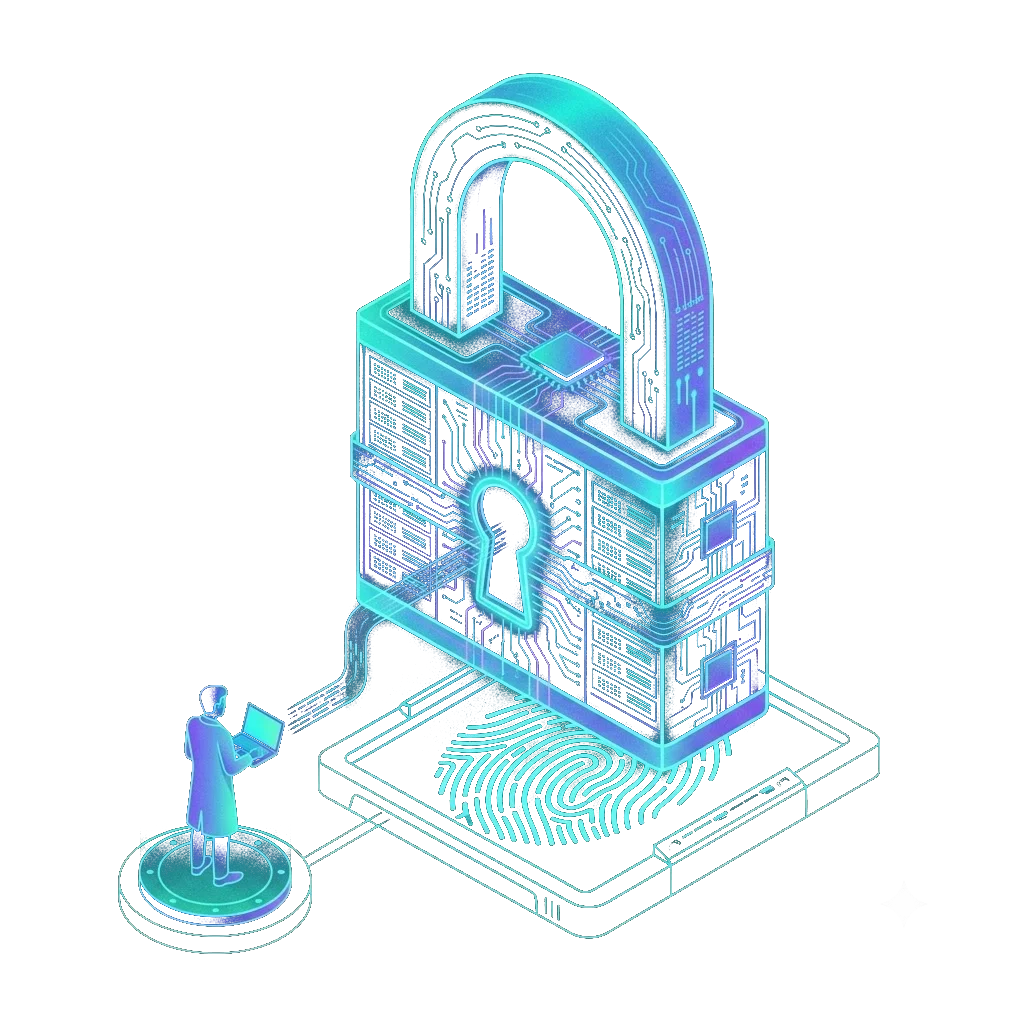
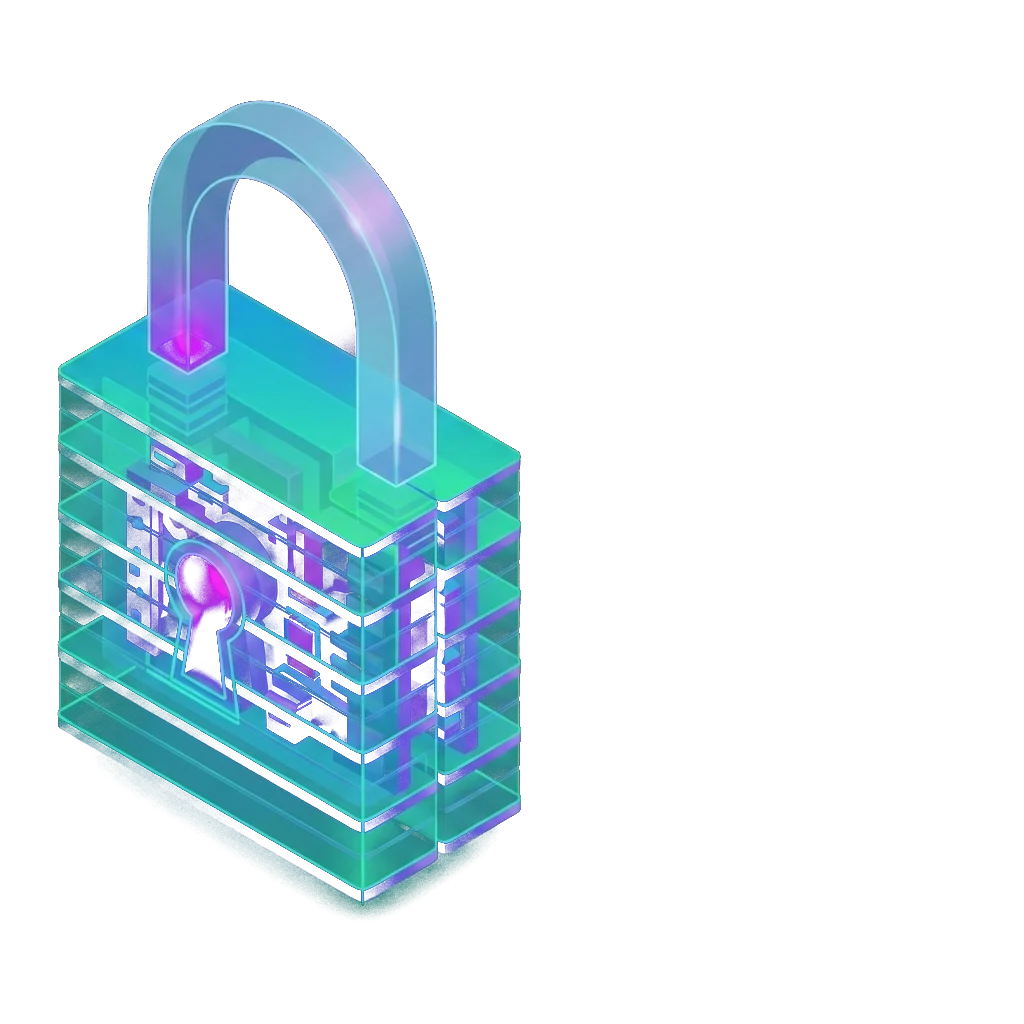
blockchain: update 1g.webp, add 2g.webp to second challenge card

diff --git a/case-study/blockchain.html b/case-study/blockchain.html
@@ -141,7 +141,7 @@
         </div>
       </div>
       <div class="cs-process__card">
-        <div class="iv-challenge__img"></div>
+        <div class="iv-challenge__img"><img src="../Figma/2g.webp" alt=""></div>
         <div class="cs-process__body">
           <h3>Compliance without friction</h3>
           <p>KYC and AML flows are inherently tedious — built for regulators, not users. The challenge was making them feel like onboarding, not interrogation.</p>
